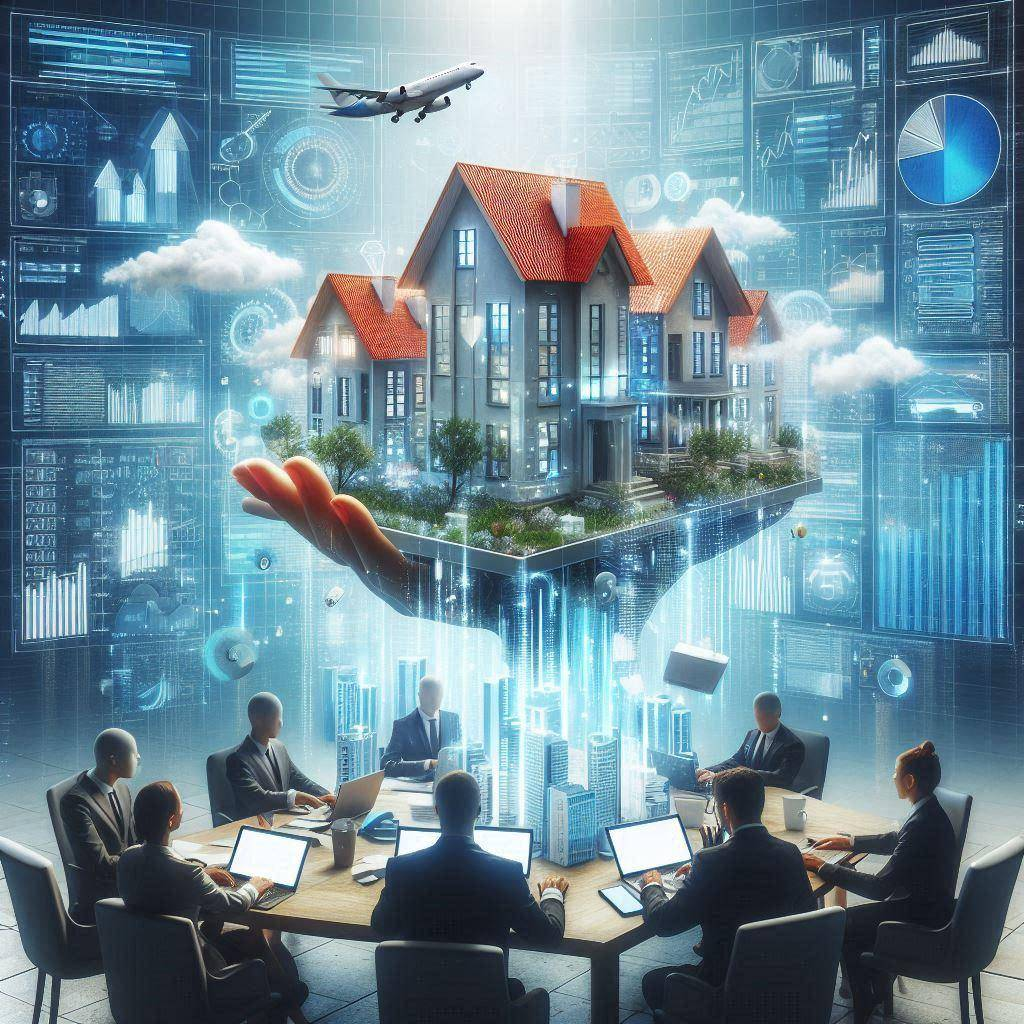
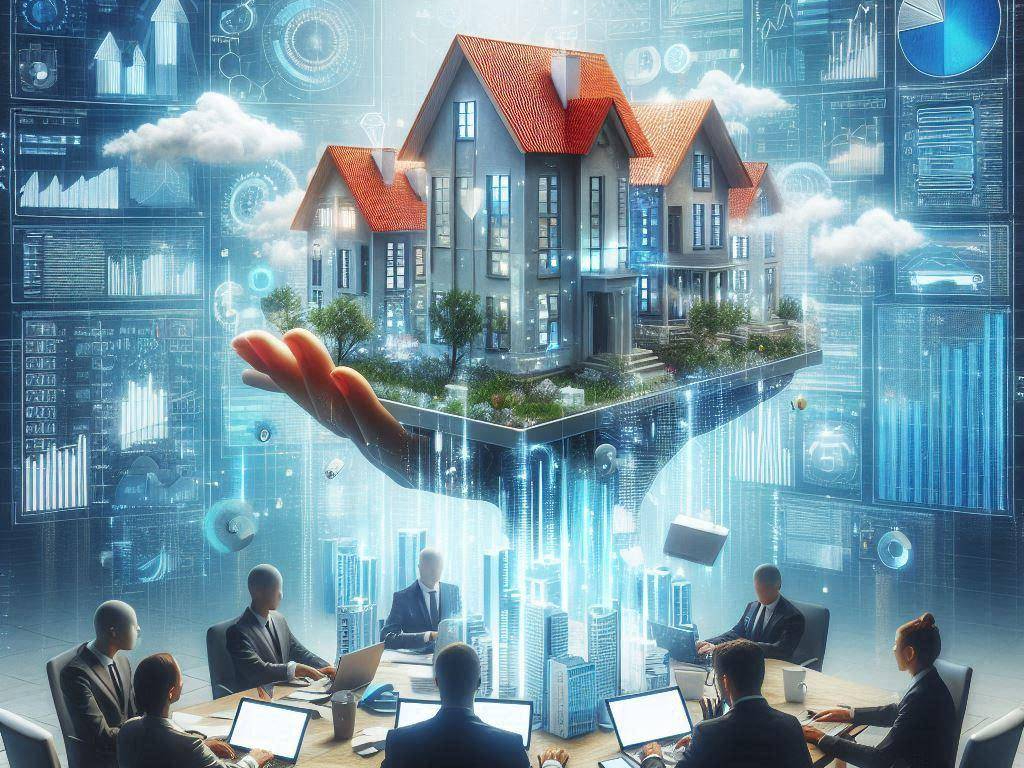
new img

diff --git a/css/insurance-coverage.html b/css/insurance-coverage.html
@@ -1,0 +1,19 @@
+Updating Your House Replacement Value Using an Appraisal
+Why Update Your House Replacement Value?
+
+Adequate Insurance Coverage: Ensuring your homeowner's insurance policy provides sufficient coverage to rebuild your house in the event of a disaster.
+Accurate Property Valuation: Having a current appraisal can help you determine the fair market value of your property for various purposes, such as selling, refinancing, or estate planning.
+Steps to Update Your House Replacement Value Using an Appraisal:
+
+Choose a Qualified Appraiser: Select a certified appraiser with experience in residential properties in your area. Look for recommendations from friends, family, or real estate professionals.
+Prepare for the Appraisal: Gather necessary documents, such as property tax records, recent home improvement receipts, and any floor plans or blueprints.
+Conduct the Appraisal: The appraiser will inspect your property, take measurements, and compare it to similar homes in your neighborhood. They will consider factors like size, condition, location, and recent market trends.
+Receive the Appraisal Report: The appraiser will provide a detailed report outlining their findings, including the estimated replacement cost of your home.
+Review the Report: Carefully review the appraisal report to ensure it accurately reflects your home's features and condition. If you have any questions or concerns, don't hesitate to contact the appraiser.
+Update Your Homeowner's Insurance: Once you have the updated replacement value, contact your insurance provider to adjust your coverage accordingly.
+Additional Considerations:
+
+Replacement Cost vs. Market Value: Remember that the replacement cost is the amount needed to rebuild your home, while the market value is what you could sell it for. These values may differ.
+Regular Updates: It's recommended to update your home's replacement value every few years, especially after significant renovations or changes in the local real estate market.
+Consider Inflation: Factor in inflation when determining your replacement cost to ensure your insurance coverage keeps pace with rising construction costs.
+By regularly updating your house replacement value using an appraisal, you can protect yourself financially in case of unforeseen events and make informed decisions about your property.

diff --git a/css/styles.css b/css/styles.css
@@ -63,7 +63,7 @@ nav ul li a {
 
 #hero {
     background-image: url('../images/hero-background.jpg');
-    background-size: cover;
+    background-size:contain;
     background-position: center;
     color: #ffffff;
     padding: 100px 20px;
